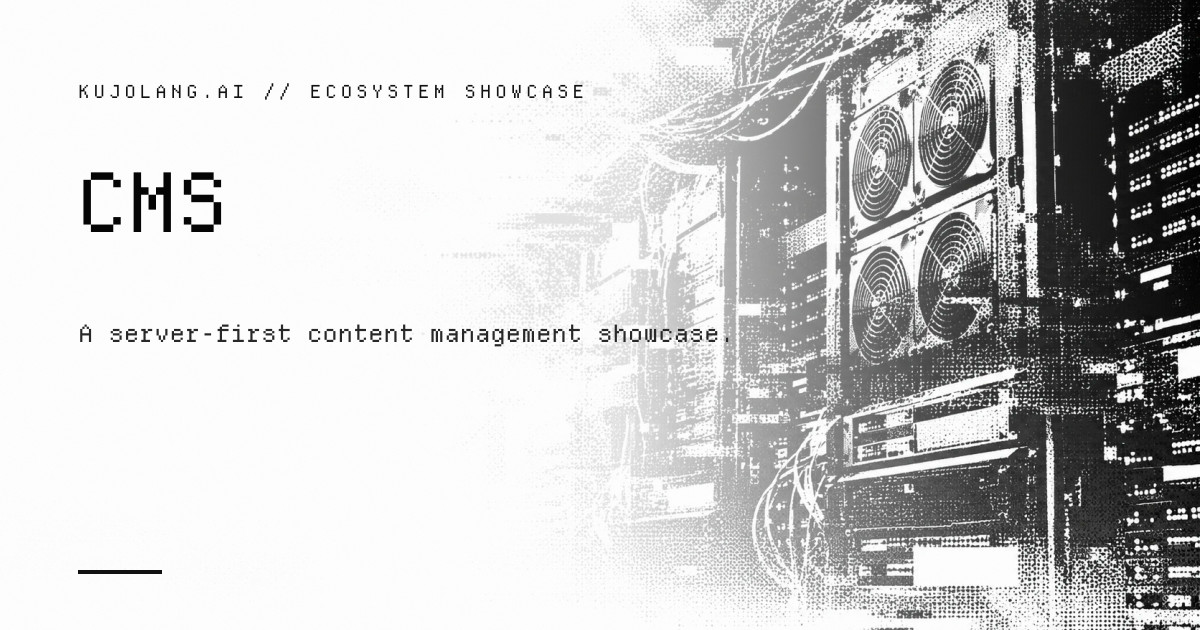
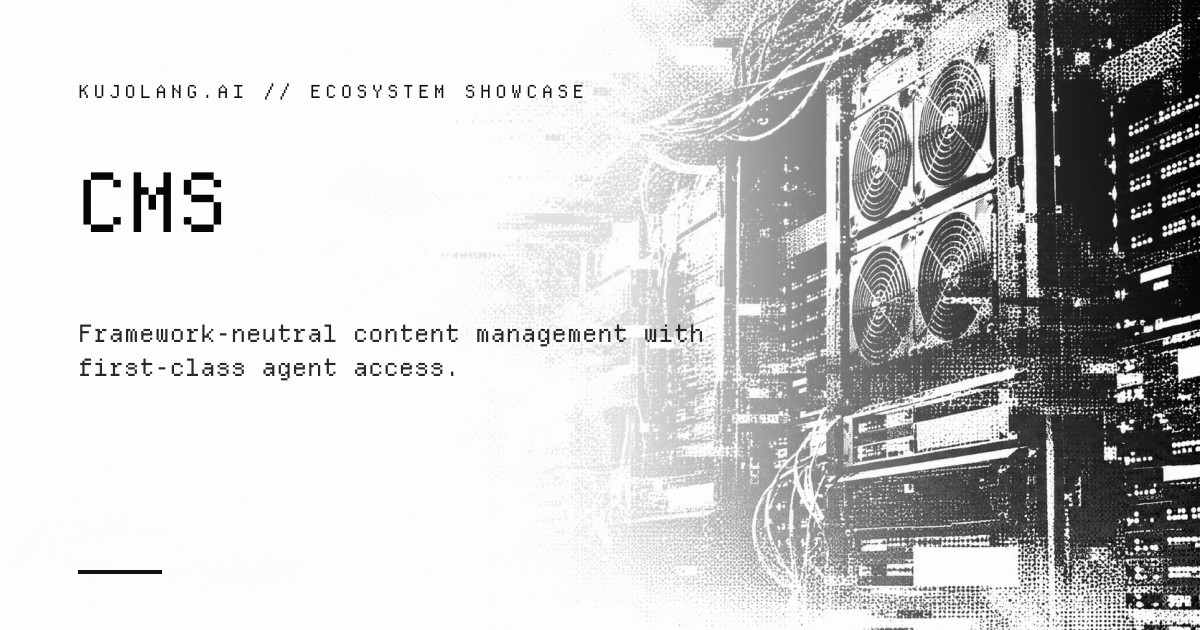
docs: present CMS 1.1.0 across main site

Changed region(s): [[0.0617, 0.573, 0.37, 0.6032], [0.3392, 0.5127, 0.6167, 0.5429], [0.0617, 0.5127, 0.3083, 0.5429]]

diff --git a/content/ecosystem/41-cms.md b/content/ecosystem/41-cms.md
@@ -1,31 +1,90 @@
 ---
 title: "CMS"
 custom_url: cms
-description: "A server-first headless CMS with Kujo-backed routes, models, delivery APIs, authentication boundaries, webhooks, jobs, migrations, and recovery operations."
+description: "A framework-neutral CMS backend with first-class content, administration, SEO, extensions, identity, AI abilities, MCP, and WebMCP."
 featured_image: "/assets/images/ecosystem/cms-content-infrastructure.webp"
 section: "Showcase"
-tags: [Showcase, Content]
+tags: [Showcase, Content, Agents, WebMCP]
 order: 400
 install_command: "git clone https://github.com/kujolang/cms.git"
 github_url: "https://github.com/kujolang/cms"
-launch_story: "Show how an operational content system can be built around Kujo."
-scope_note: "Production deployment requires environment-specific security, backup, restore, performance, and governance validation."
-keywords: "CMS, Kujo ecosystem, Showcase, Content"
-seo_title: "CMS — Kujo Ecosystem"
+launch_story: "Give people, developers, integrations, and agents one inspectable content contract without prescribing the frontend stack."
+scope_note: "CMS 1.1.0 is production-oriented backend software, but each deployment still requires environment-specific identity, infrastructure, storage, security, recovery, and governance proof."
+version: "1.1.0"
+last_updated: 2026-08-30
+keywords: "Kujo CMS, open source CMS, agent-ready CMS, WebMCP CMS, MCP content management, headless CMS, theme and plugin packages"
+seo_title: "Kujo CMS 1.1.0 — Agent-Ready Content Management"
+seo_description: "Explore Kujo CMS 1.1.0: framework-neutral content, SEO, social sharing, themes, plugins, identities, abilities, MCP, WebMCP, APIs, and CLI workflows."
 ---
 
 ## What it does
 
-A server-first headless CMS with Kujo-backed routes, models, delivery APIs, authentication boundaries, webhooks, jobs, migrations, and recovery operations.
+Kujo CMS 1.1.0 is a framework-neutral content backend with a separate, complete
+administration and frontend example. It manages content types, entries,
+taxonomies, media, menus, users, sessions, permissions, SEO, social sharing,
+themes, plugins, abilities, connectors, delivery APIs, and production operations.
+
+Use the core from Next.js, Astro, PHP, a native application, a terminal harness,
+or another frontend stack. The official dependency-free JavaScript and PHP
+clients expose the same contracts used by the example application.
+
+## First-class agent access
+
+Agents do not need to imitate a person clicking through the backend. The
+Abilities API publishes structured input and output schemas, required
+permissions, mutation boundaries, confirmation requirements, and audit
+receipts. Plugins can add abilities and connectors without creating a second
+private automation system.
+
+WebMCP is built into the CMS and enabled by default for read-only public site
+information, search, published-content listings, and exact published records.
+MCP-ready tool descriptors and the connector layer let traditional MCP clients
+work alongside WebMCP. Drafts and mutations stay behind the CMS authorization
+boundary.
+
+## Administration without API-only compromises
+
+The [CMS Example](https://github.com/kujolang/cms-example) turns the same core
+contracts into a full frontend and administration experience. Editors can
+manage content, taxonomies, users, registration, granular SEO issues, bulk SEO
+updates, social networks, account attribution, themes, plugins, abilities, and
+connectors from dedicated screens.
+
+Every core operation remains available through the API, and focused terminal
+helpers cover SEO, content, media, extensions, abilities, and connectors. This
+keeps people and agents on the same permission and audit path.
+
+## Portable themes and plugins
+
+Theme and plugin packages use versioned manifests with compatibility,
+distribution, settings, author, branding, and administration metadata. Guarded
+ZIP installation checks size, expanded size, file count, structure, manifest
+placement, and SHA-256 integrity before registering a package. Installation
+does not execute uploaded package code.
+
+The standalone [Field Notes theme](https://github.com/kujolang/cms-field-notes-theme)
+and [contact form plugin](https://github.com/kujolang/cms-contact-form) are
+forkable examples of the package contracts.
 
 ## Why it belongs in Kujo
 
-Show how an operational content system can be built around Kujo.
+CMS shows what an AI-native application looks like when agents are first-class
+consumers instead of browser automation bolted on later: clear contracts,
+scoped authority, human confirmation, observable actions, and equal access
+through the interface, API, and terminal.
 
 ## Operating boundary
 
-Production deployment requires environment-specific security, backup, restore, performance, and governance validation.
+The backend includes scoped authentication, revocable sessions, role-derived
+capabilities, audit logs, rate-limit support, idempotency, migrations, jobs,
+webhooks, dead-letter recovery, backup and restore workflows, and a complete
+release gate. A real deployment still needs its own identity adapter, rotated
+secrets, trusted ingress, durable storage, monitoring, recovery objectives,
+compliance review, and governance controls.
 
 ## Learn more
 
-The repository is the source of truth for current setup, commands, examples, security notes, compatibility, and verification evidence.
+- [CMS 1.1.0 release](https://github.com/kujolang/cms/releases/tag/v1.1.0)
+- [CMS repository](https://github.com/kujolang/cms)
+- [CMS Example 1.1.0 release](https://github.com/kujolang/cms-example/releases/tag/v1.1.0)
+- [Complete CMS documentation](https://docs.kujolang.ai/showcases/cms/)

diff --git a/content/skills/011-kujo-cms-workflows.md b/content/skills/011-kujo-cms-workflows.md
@@ -1,8 +1,8 @@
 ---
 title: "Kujo CMS"
 custom_url: "kujo-cms-workflows"
-description: "Use this skill when running, validating, extending, or maintaining the Kujo CMS server-first showcase: `backend/runtime/main.kujo`, content models, delivery routes, auth boundaries, contract tests, startup compatibility, webhook/background jobs, migration safety, backup/restore, release gates, or `cms` source/docs changes."
-excerpt: "Use this skill when running, validating, extending, or maintaining the Kujo CMS server-first showcase."
+description: "Use this skill to run, validate, extend, or maintain Kujo CMS, including content, identity, SEO, extension packages, abilities, connectors, WebMCP, operations, and release gates."
+excerpt: "Repository-backed guidance for running and maintaining the current Kujo CMS contracts and release gates."
 featured_image: "/assets/images/ecosystem/skill-kujo-cms-workflows.webp"
 social_image: "/assets/images/social/kujo-cms-workflows.jpg"
 section: "Agent Skill"
@@ -12,27 +12,34 @@ github_url: "https://github.com/kujolang/kujo-skills/blob/main/skills/kujo-cms-w
 launch_story: "One of 96 focused, repository-backed skills in the Kujo Skills 0.4.1 technical preview."
 scope_note: "Guidance only. The agent host must enforce permissions, capability limits, and approval boundaries."
 version: "0.4.1"
-last_updated: "2026-08-25"
-keywords: "Kujo CMS, Kujo Agent Skill, kujo-cms-workflows, repository-backed agent guidance"
+last_updated: "2026-08-30"
+keywords: "Kujo CMS, Kujo Agent Skill, kujo-cms-workflows, abilities API, WebMCP, extension packages, repository-backed agent guidance"
 seo_title: "Kujo CMS — Kujo Agent Skill"
-seo_description: "Use this skill when running, validating, extending, or maintaining the Kujo CMS server-first showcase: `backend/runtime/main.kujo`, content models, delivery routes, auth boundaries, contract tests, startup compatibility, webhook/background jobs, migration safety, backup/restore, release gates, or `cms` source/docs changes."
+seo_description: "Use the Kujo CMS workflow skill for content, identity, SEO, themes, plugins, abilities, connectors, WebMCP, operations, tests, and release gates."
 ---
 
 ## What it covers
 
-Use this skill when running, validating, extending, or maintaining the Kujo CMS server-first showcase: `backend/runtime/main.kujo`, content models, delivery routes, auth boundaries, contract tests, startup compatibility, webhook/background jobs, migration safety, backup/restore, release gates, or `cms` source/docs changes.
+Use this skill when running, validating, extending, or maintaining Kujo CMS. It
+routes work through the canonical `backend/runtime/main.kujo` entrypoint and
+keeps content, identity, SEO, theme and plugin packages, abilities, connectors,
+WebMCP, operational scripts, documentation, and release evidence aligned.
 
 ## Released guidance
 
 - The canonical runtime entrypoint is `backend/runtime/main.kujo`; there is no standalone CLI wrapper.
 - Public discovery routes, published-only anonymous reads, auth-gated write routes, entry locks, revisions/rollback, webhook/background-job scripts, and operational scripts are part of the showcase surface.
+- CMS 1.1.0 adds framework-neutral sessions and capabilities, granular SEO and social operations, verified extension ZIP ingestion, plugin abilities and connectors, atomic content and media workflows, official JavaScript and PHP clients, and built-in WebMCP.
+- Administration, API, terminal, and agent consumers must use the same core permission and audit contracts rather than duplicating business rules in a frontend adapter.
 - The documented release gate covers contract, smoke, startup compatibility, integration, security, and optional performance checks; default branch protection remains the known governance item before claiming enterprise-complete posture.
 - Webhook/background-job scripts may mutate local queues; inspect env and paths first.
 - Default to loopback-local binds unless the user explicitly needs another host.
 
 ## Release boundary
 
-This page reflects the 0.4.1 technical preview on 2026-08-25. The skill provides repository-backed guidance; the agent host remains responsible for permissions and enforcement.
+This page reflects the 0.4.1 technical preview guidance reviewed against CMS
+1.1.0 on 2026-08-30. The skill provides repository-backed guidance; the agent
+host remains responsible for permissions, approval, and enforcement.
 
 ## Source
 

diff --git a/CHANGELOG.md b/CHANGELOG.md
@@ -6,6 +6,10 @@
   create, and run commands plus direct links to the showcase and documentation.
 - Added the focused agent installer to the Quick Install dialog with an
   independent copy control for each installation path.
+- Updated the CMS ecosystem and workflow-skill pages for CMS 1.1.0, including
+  framework-neutral clients, granular SEO and social tools, portable extension
+  packages, identity sessions, abilities, connectors, MCP, and built-in WebMCP.
+- Refreshed the CMS and CMS workflow social cards from their Howl sources.
 - Updated the public installer to Kujo v1.1.0 with the focused `agent` profile,
   immutable repository pin support, and current release defaults.
 - Added the Kujo Providers directory with 25 native provider integrations, local provider marks, searchable cards, accessible detail dialogs, and README-sourced starter snippets.
